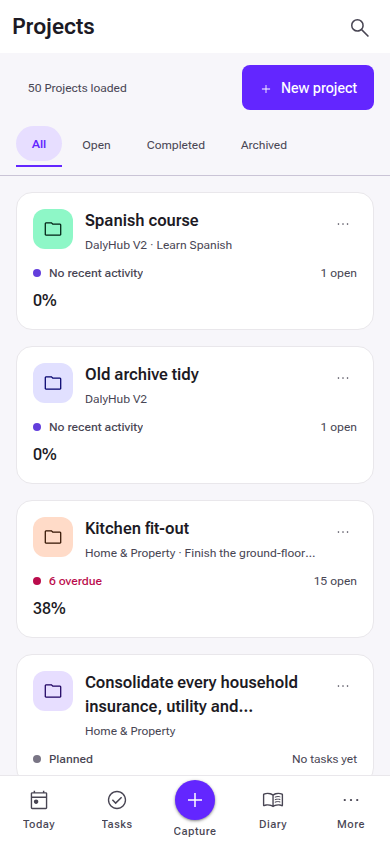
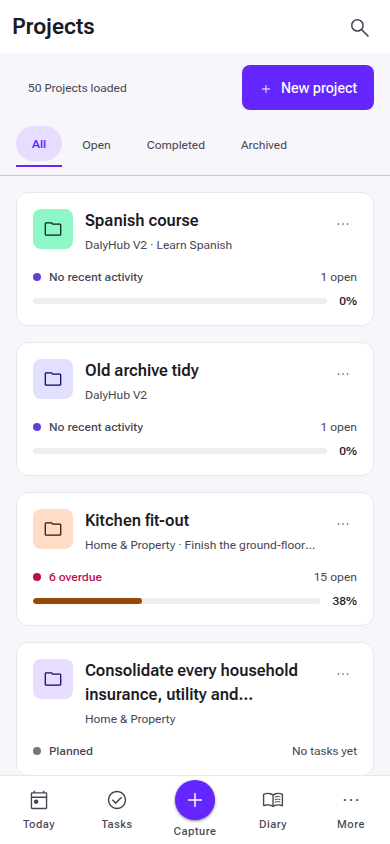
DS-05: drop the ProjectCard phone override that the new grid made wrong
`.dh-pcard__progress` became a two-track GRID in DS-05, and the `@media
(max-width: 48rem)` block that composed the old FLEX column was left behind.
On a grid container `flex-direction: row` is inert, `flex: 1` on a child is
inert, and `order` reorders items that are already placed — so the track lost
the one declaration giving it width and collapsed to nothing.

MEASURED on `final/projects-390-light.png`: a card with a large "38%" on a line
of its own and no bar at all, which is the exact composition the block existed
to prevent, produced by the block itself.

Everything it did is now the default at every width — compact padding, the mark
a rung down, the percentage on the bar's row, the attention line at meta size —
so the block is removed rather than rewritten. The comment records the general
hazard: a responsive override inherits the LAYOUT MODEL of the rule it
overrides, and changing that model turns the override into declarations that
are not inert but wrong.

Re-verified: the mobile audit reports no document overflow and no axe findings
at 320/390 in both appearances.

Claude-Session: https://claude.ai/code/session_01DwxQhWmgfnM3oZ2HWA4KU5

diff --git a/app/styles/card-family.css b/app/styles/card-family.css
@@ -3237,79 +3237,27 @@
  * a rung, and the padding comes in. Same DOM, same reading order, same
  * accessible names.
  */
-@media (max-width: 48rem) {
-  .dh-pcard {
-    gap: var(--app-space-3);
-    padding: var(--app-card-padding-compact);
-    border-radius: var(--app-shape-card);
-  }
-
-  /* The mark steps down: at row density a 56px square is the loudest thing on
-   * the screen, and identity only has to be recognisable, not dominant. */
-  .dh-pcard__mark > .dh-accent-icon {
-    inline-size: var(--app-entity-icon-container-size);
-    block-size: var(--app-entity-icon-container-size);
-    border-radius: var(--md-sys-shape-corner-medium);
-    font-size: var(--app-entity-icon-size);
-  }
-
-  .dh-pcard__mark > .dh-accent-icon .dh-icon {
-    inline-size: var(--app-entity-icon-size);
-    block-size: var(--app-entity-icon-size);
-  }
-
-  /*
-   * The figure joins the BAR's row rather than sitting on one of its own. On a
-   * phone the percentage and the bar are one statement, and giving them two
-   * lines spent ~40px per card saying it twice over.
-   */
-  .dh-pcard__progress {
-    flex-direction: row;
-    align-items: center;
-    gap: var(--app-space-3);
-  }
-
-  .dh-pcard__figures {
-    flex: none;
-    order: 2;
-    gap: var(--app-space-2);
-  }
-
-  .dh-pcard__track {
-    /* `flex: 1` is safe here and not in the column layout: the axis is now the
-     * inline one, so a flex factor resolves against width rather than
-     * collapsing the bar's height to nothing. */
-    flex: 1;
-    order: 1;
-    min-inline-size: 0;
-  }
-
-  /* The percentage steps down with everything else — it is still the largest
-   * figure on the row, but the row is 36px rather than 60px. */
-  .dh-pcard__percent {
-    font-size: var(--md-sys-typescale-title-medium-size);
-    line-height: var(--md-sys-typescale-title-medium-line-height);
-  }
-
-  /*
-   * The trailing fact joins the ATTENTION line, opposite it — the row that
-   * already exists and has spare width, rather than a third line of its own.
-   */
-  .dh-pcard__foot {
-    gap: var(--app-space-2);
-  }
-
-  .dh-pcard__attention {
-    font-size: var(--md-sys-typescale-body-small-size);
-    line-height: var(--md-sys-typescale-body-small-line-height);
-  }
-
-  /* A card with no progress keeps no reserved height on a phone: there is no
-   * row of neighbours to share a baseline with when the grid is one column. */
-  .dh-pcard__figures--factonly {
-    min-block-size: 0;
-  }
-}
+/*
+ * DS-05 — the phone block is GONE, because the desktop card became it.
+ *
+ * Everything this block did — `--app-card-padding-compact`, the mark a rung
+ * down, the percentage on the bar's row rather than above it, the attention line
+ * at meta size — is what `.dh-pcard` now does at every width. Keeping a phone
+ * override that restates the default would be harmless; keeping THIS one was
+ * not, and it is worth recording why.
+ *
+ * The rules were written against a FLEX column. `.dh-pcard__progress` is now a
+ * two-track grid, and on a grid container `flex-direction: row` is inert, `flex:
+ * 1` on a child is inert, and `order` reorders items that are already placed. So
+ * the bar lost the only declaration that gave it width and collapsed to nothing:
+ * MEASURED on `final/projects-390-light.png` as a card with a large "38%" on a
+ * line of its own and no track at all — the exact composition this block existed
+ * to prevent, produced by the block itself.
+ *
+ * The lesson is narrow and worth keeping: a responsive override inherits the
+ * LAYOUT MODEL of the rule it overrides, and changing that model silently turns
+ * the override into dead declarations that are not inert but wrong.
+ */
 
 /* -------------------------------------------------------------------------- */
 /* EntityRow — the phone composition                                          */
